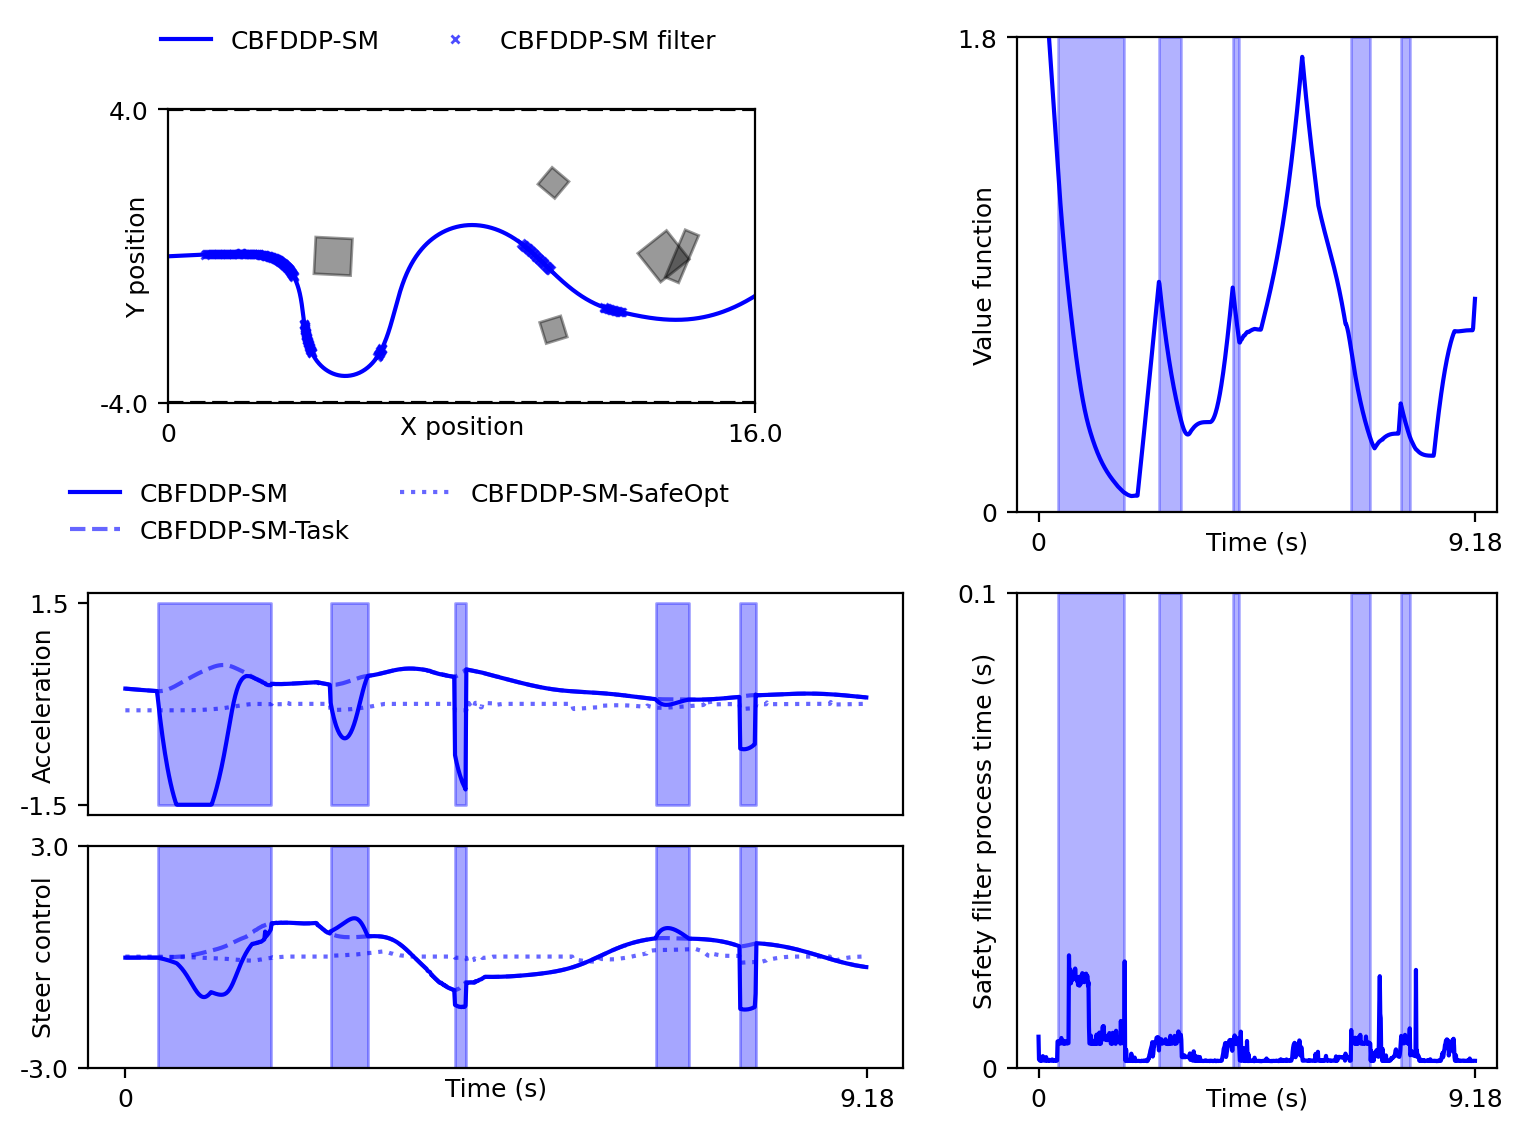
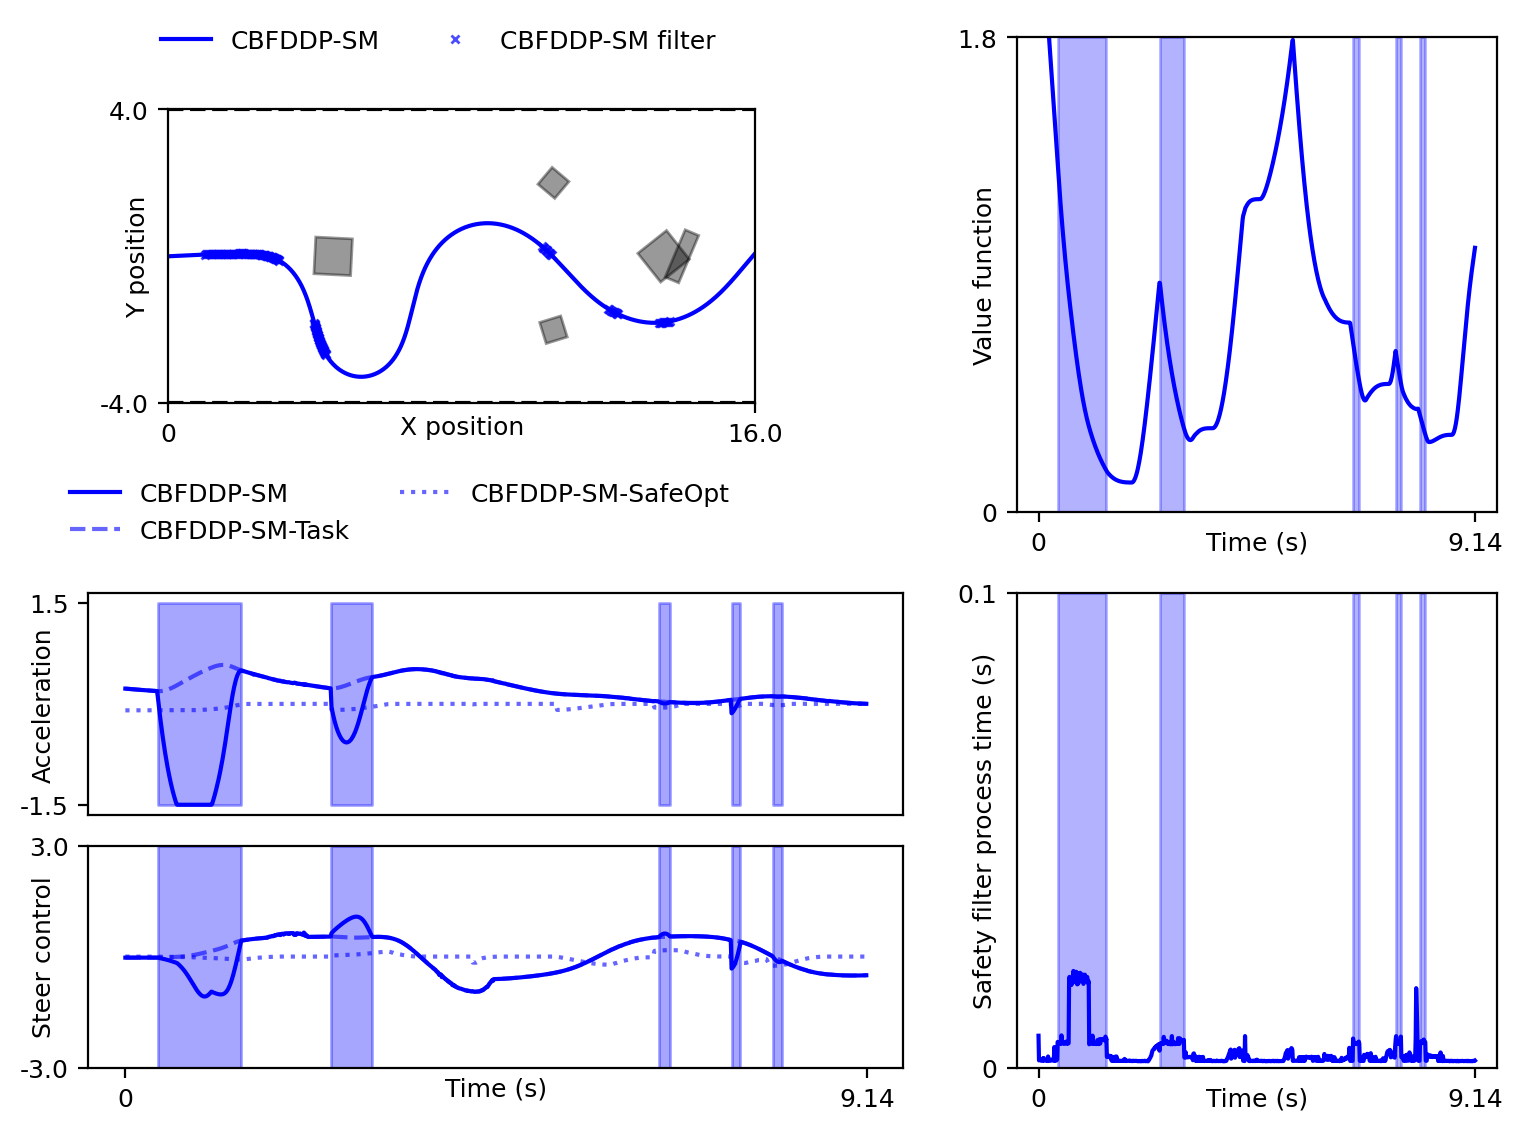
Soft box obs (#19)
* soften box constraint

* update README and figures

* use velocity threshold of 0.05 to relax stopping so that it does not stop and start due to numerical issue

diff --git a/simulators/costs/obs_margin.py b/simulators/costs/obs_margin.py
@@ -87,3 +87,54 @@ class BoxObsMargin(BaseMargin):
         self, state: DeviceArray, ctrl: DeviceArray
     ) -> DeviceArray:
         return self.get_stage_margin(state, ctrl)
+
+
+class SoftBoxObsMargin(BaseMargin):
+
+    def __init__(
+        self, box_spec: np.ndarray, buffer: float = 0.
+    ):
+        """
+        Args:
+            box_spec (np.ndarray): [x, y, heading, half_length, half_width], spec
+                of the box obstacles.
+            buffer (float): the minimum required distance to the obstacle, i.e., if
+                the distance is smaller than `buffer`, the cost will be positive as
+                well. Defaults to 0.
+        """
+        super().__init__()
+        # Box obstacle
+        self.box_center = jnp.array([[box_spec[0]], [box_spec[1]]])
+        self.box_yaw = box_spec[2]
+        # rotate clockwise (to move the world frame to obstacle frame)
+        self.obs_rot_mat = jnp.array([[
+            jnp.cos(self.box_yaw), jnp.sin(self.box_yaw)
+        ], [-jnp.sin(self.box_yaw), jnp.cos(self.box_yaw)]])
+        self.box_halflength = box_spec[3]
+        self.box_halfwidth = box_spec[4]
+        self.box_kappa = 4.0
+        self.buffer = buffer
+
+    @partial(jax.jit, static_argnames='self')
+    def get_stage_margin(
+        self, state: DeviceArray, ctrl: DeviceArray,
+    ) -> DeviceArray:
+        pos = state[0:2].reshape(2, -1)
+        pos_final = self.obs_rot_mat @ (pos - self.box_center)
+
+        diff = 0.
+        diff += jnp.exp(self.box_kappa*jnp.minimum(pos_final[0] - self.box_halflength, 5.0))
+        diff += jnp.exp(self.box_kappa*jnp.minimum(-self.box_halflength - pos_final[0], 5.0))
+        diff += jnp.exp(self.box_kappa*jnp.minimum(pos_final[1] - self.box_halfwidth, 5.0))
+        diff += jnp.exp(self.box_kappa*jnp.minimum(-self.box_halfwidth - pos_final[1], 5.0))
+        diff = jnp.log(diff)/self.box_kappa
+
+        diff = diff.squeeze()
+
+        return diff - self.buffer
+
+    @partial(jax.jit, static_argnames='self')
+    def get_target_stage_margin(
+        self, state: DeviceArray, ctrl: DeviceArray
+    ) -> DeviceArray:
+        return self.get_stage_margin(state, ctrl)

diff --git a/simulators/car/bicycle5d_margin.py b/simulators/car/bicycle5d_margin.py
@@ -6,7 +6,7 @@ import jax.numpy as jnp
 import jax
 
 from simulators.costs.base_margin import BaseMargin, SoftBarrierEnvelope
-from simulators.costs.obs_margin import CircleObsMargin, BoxObsMargin
+from simulators.costs.obs_margin import CircleObsMargin, BoxObsMargin, SoftBoxObsMargin
 from simulators.costs.quadratic_penalty import QuadraticControlCost
 from simulators.costs.half_space_margin import LowerHalfMargin, UpperHalfMargin
 
@@ -188,7 +188,7 @@ class Bicycle5DConstraintMargin(BaseMargin):
         elif self.obsc_type == 'box':
             for box_spec in self.obs_spec:
                 self.obs_constraint.append(
-                    BoxObsMargin(box_spec=box_spec, buffer=config.EGO_RADIUS)
+                    SoftBoxObsMargin(box_spec=box_spec, buffer=config.EGO_RADIUS)
                 )
 
         self.road_position_min_cost = LowerHalfMargin(

diff --git a/simulators/car/car_single.py b/simulators/car/car_single.py
@@ -131,7 +131,7 @@ class CarSingle5DEnv(BaseSingleEnv):
             Dict: additional information of the step, such as target margin and
                 safety margin used in reachability analysis.
         """
-        self.min_velocity = 0.02
+        self.min_velocity = 0.05
         if end_criterion is None:
             end_criterion = self.end_criterion
 

diff --git a/README.md b/README.md
@@ -7,7 +7,7 @@ TODO:
 - Rename 'jerk' to 'action_fluctuation' - Done
 - The `ilqr_filter_policy.py` and `base_single_env.py` needs urgent refactoring - Done
 - DDP - Done but not as stable as ILQR
-- Box obstacles - Done but the reach-avoid needs improvement.
+- Box obstacles - Done with better results with soft box constraints.
 - Line searches - Done -  more line searches can be explored.
 - Look at other means of obtaining target functions such as using a learned target function for better reach-avoid results - 
 
